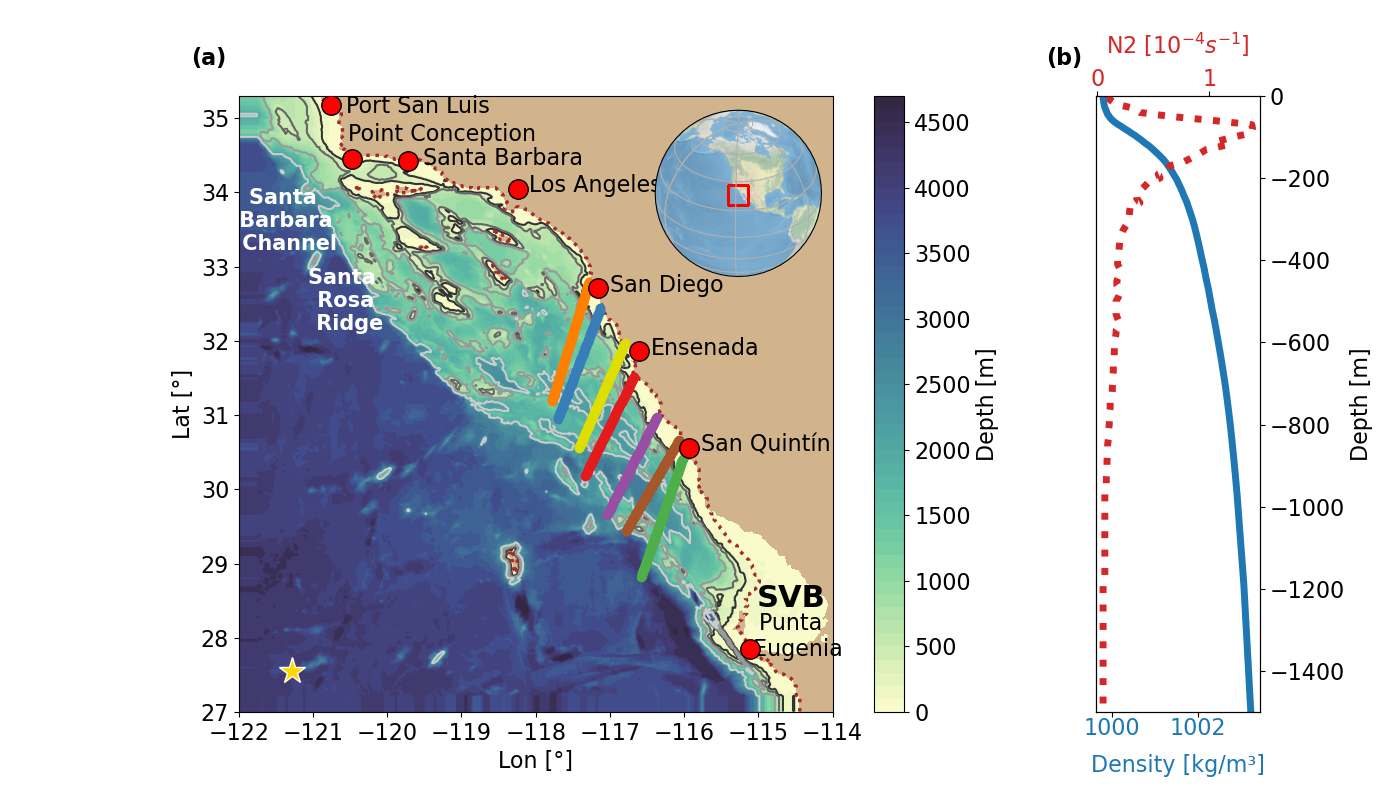
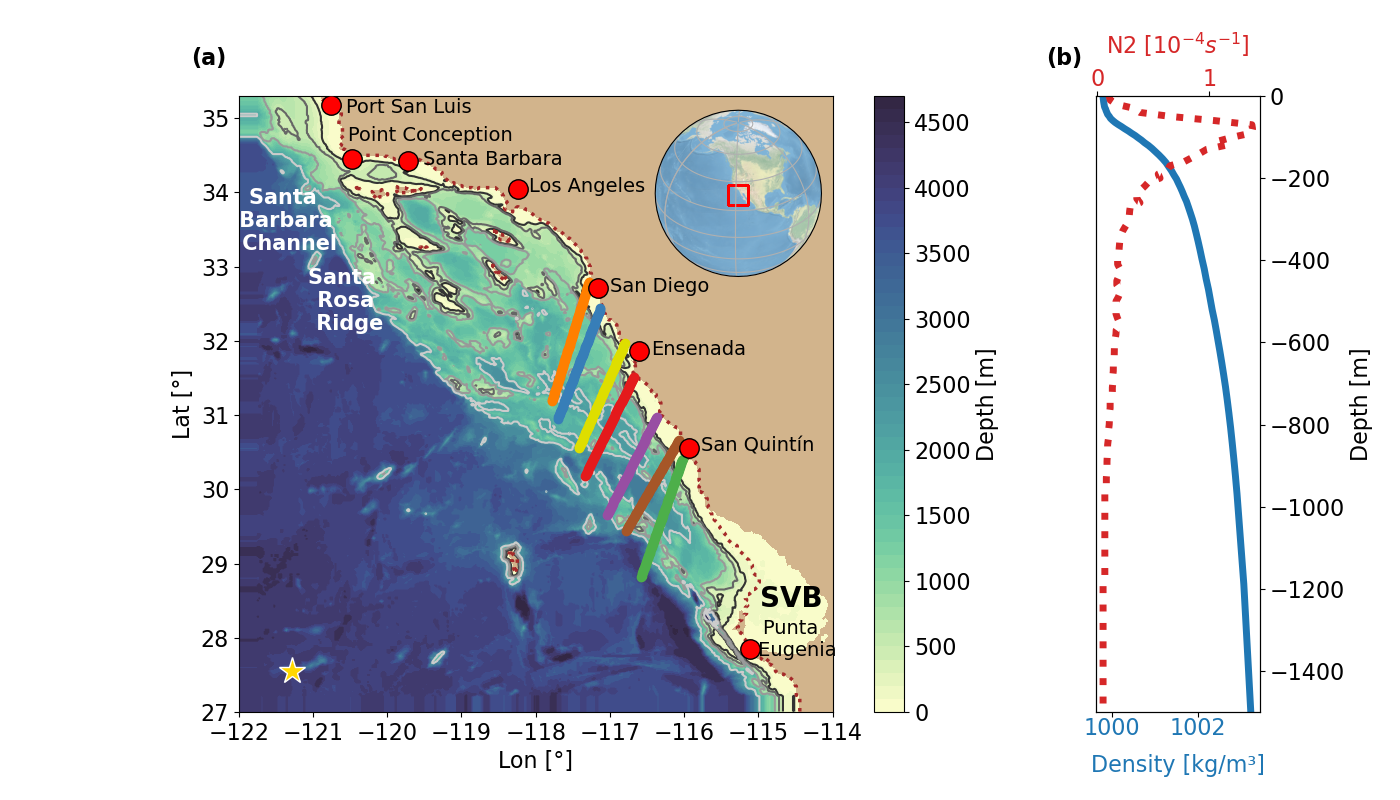
Newmap

diff --git a/Scripts/Figure_1_MAP.py b/Scripts/Figure_1_MAP.py
@@ -109,18 +109,18 @@ for kk, ll, lab in zip(ind_lon, ind_lat,
                         'Point Conception', 'Port San Luis']):
 	ax.plot(kk, ll, 'o',markersize=14, color='r', markeredgecolor='k',zorder=5)
 	if lab == 'Point Conception':
-		ax.text(kk - 0.06, ll + 0.25, lab, fontsize=16)
+		ax.text(kk - 0.06, ll + 0.25, lab, fontsize=14)
 	elif lab == 'Santa Barbara':
-		ax.text(kk + 0.2, ll - 0.05, lab, fontsize=16)
+		ax.text(kk + 0.2, ll - 0.05, lab, fontsize=14)
 	elif lab == 'Port San Luis':
-		ax.text(kk + 0.2, ll - 0.1, lab, fontsize=16)
+		ax.text(kk + 0.2, ll - 0.1, lab, fontsize=14)
 	elif lab == 'Punta \n Eugenia':
-		ax.text(kk + 0.6, ll - 0.1, lab, fontsize=16, horizontalalignment='center')
+		ax.text(kk + 0.6, ll - 0.1, lab, fontsize=14, horizontalalignment='center')
 	else:
-		ax.text(kk + 0.16, ll - 0.05, lab, fontsize=16)
+		ax.text(kk + 0.16, ll - 0.05, lab, fontsize=14)
 
 
-ax.text(0.93, 0.17, 'SVB', fontsize=22, horizontalalignment='center', fontweight='bold',
+ax.text(0.93, 0.17, 'SVB', fontsize=20, horizontalalignment='center', fontweight='bold',
         transform=ax.transAxes)
         
 ax.plot(LON[45], LAT[40], '*', color='gold', markersize=20, markeredgecolor='w')
